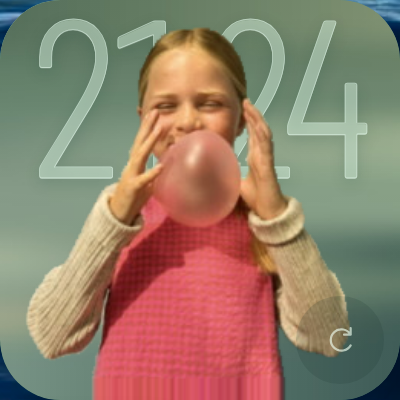
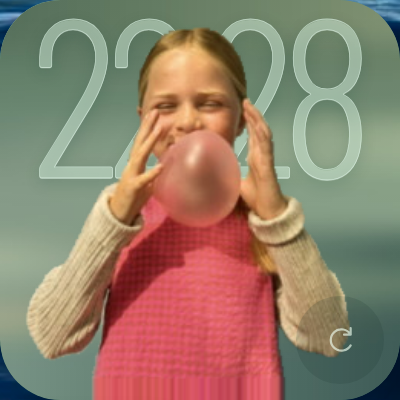
fix(ipad): complete Widget 2.2 native media, backups and browser regressions

diff --git a/ipad/sw.js b/ipad/sw.js
@@ -1,8 +1,8 @@
 'use strict';
 const CACHE_PREFIX='air-os-ipad-'+encodeURIComponent(self.registration.scope)+'-';
-const CACHE_VERSION=CACHE_PREFIX+'air-os-ipad-v5-4d0f57258fc68c354911';
+const CACHE_VERSION=CACHE_PREFIX+'air-os-ipad-v5-38048f4e3089477f0223';
 const SHELL=["./","./NOTICE","./air-flow.css","./air-logo.png","./air-os-official.png","./app.js","./apps.js","./assets/fonts/Barlow-OFL.txt","./assets/fonts/OpenRunde-Regular.otf","./assets/fonts/OpenRunde-Semibold.otf","./assets/fonts/barlow-clock.woff2","./assets/forest-path.jpg","./assets/forest-path.metadata.json","./assets/lake-evening.jpg","./assets/lake-evening.metadata.json","./assets/ocean-blue.jpg","./assets/ocean-blue.mp4","./assets/yosemite-morning.metadata.json","./assets/yosemite-morning.png","./backup.js","./core/desktop-sessions.js","./core/genie-model.js","./core/genie-transition.js","./core/infinity-dock.js","./core/infinity-notification.js","./core/infinity-web.js","./core/music-metadata.js","./core/playback-history.js","./core/security.js","./core/transfers.js","./core/visual-icons.js","./core/visual-motion.js","./core/wallpaper.js","./core/widget-layout.js","./core/window-model.js","./desktop.css","./desktop.js","./dock-material.js","./icon.svg","./icons/AUTHORS","./icons/COPYING","./icons/NOTICE","./icons/browser/document-save-symbolic.svg","./icons/browser/edit-copy-symbolic.svg","./icons/browser/edit-delete-symbolic.svg","./icons/browser/edit-paste-symbolic.svg","./icons/browser/go-next-symbolic.svg","./icons/browser/go-previous-symbolic.svg","./icons/browser/go-up-symbolic.svg","./icons/source/actions/16/document-new.svg","./icons/source/actions/16/document-open.svg","./icons/source/actions/16/document-save.svg","./icons/source/actions/16/edit-copy.svg","./icons/source/actions/16/edit-cut.svg","./icons/source/actions/16/edit-delete.svg","./icons/source/actions/16/edit-paste.svg","./icons/source/actions/16/edit-redo.svg","./icons/source/actions/16/edit-undo.svg","./icons/source/actions/16/go-home.svg","./icons/source/actions/16/go-next.svg","./icons/source/actions/16/go-previous.svg","./icons/source/actions/16/go-up.svg","./icons/source/actions/16/list-add.svg","./icons/source/actions/16/list-remove.svg","./icons/source/actions/16/media-playback-pause.svg","./icons/source/actions/16/media-playback-start.svg","./icons/source/actions/16/media-skip-backward.svg","./icons/source/actions/16/media-skip-forward.svg","./icons/source/actions/16/view-refresh.svg","./icons/source/actions/16/window-close.svg","./icons/source/actions/22/view-grid.svg","./icons/source/actions/32/system-search.svg","./icons/source/actions/symbolic/document-save-symbolic.svg","./icons/source/actions/symbolic/edit-copy-symbolic.svg","./icons/source/actions/symbolic/edit-delete-symbolic.svg","./icons/source/actions/symbolic/edit-paste-symbolic.svg","./icons/source/actions/symbolic/go-next-symbolic.svg","./icons/source/actions/symbolic/go-previous-symbolic.svg","./icons/source/actions/symbolic/go-up-symbolic.svg","./icons/source/apps/scalable/accessories-camera.svg","./icons/source/apps/scalable/accessories-text-editor.svg","./icons/source/apps/scalable/calc.svg","./icons/source/apps/scalable/calendar.svg","./icons/source/apps/scalable/evolution-tasks.svg","./icons/source/apps/scalable/gnome-music.svg","./icons/source/apps/scalable/internet-mail.svg","./icons/source/apps/scalable/preferences-system.svg","./icons/source/apps/scalable/text-editor.svg","./icons/source/categories/32/applications-internet.svg","./icons/source/devices/scalable/audio-headphones.svg","./icons/source/devices/scalable/computer.svg","./icons/source/devices/scalable/drive-harddisk.svg","./icons/source/devices/scalable/drive-removable-media.svg","./icons/source/devices/scalable/input-keyboard.svg","./icons/source/places/scalable/folder-documents.svg","./icons/source/places/scalable/folder-download.svg","./icons/source/places/scalable/folder-images.svg","./icons/source/places/scalable/folder-music.svg","./icons/source/places/scalable/folder-videos.svg","./icons/source/places/scalable/folder.svg","./icons/source/places/scalable/user-home.svg","./icons/source/places/scalable/user-trash.svg","./icons/source/status/16/task-complete.svg","./icons/source/status/32/dialog-warning.svg","./licenses/Air-OS-MIT.txt","./licenses/InfinityOS-AGPL-3.0.txt","./licenses/InfinityOS-Linux-GPL-3.0.txt","./licenses/KDE-wallpaper-LGPL-3.0.txt","./licenses/MacShell-MIT.txt","./licenses/MacShell-MacLock-MIT.txt","./licenses/MacTahoe-GTK-MIT.txt","./licenses/OpenRunde-OFL-1.1.txt","./liquid-maclock.css","./maclock.js","./manifest.webmanifest","./notch/model.js","./notch/motion-data.js","./notch/pro-notch.css","./notch/pro-notch.js","./playback-history.js","./premium4.css","./provenance.json","./registry.js","./source/source-info.json","./source/source.zip","./spotify.js","./storage.js","./styles.css","./system3.css","./vendor/SOURCE.json","./vendor/air-arcade-games.css","./vendor/air-arcade-games.js","./vendor/airwrite.css","./vendor/airwrite.js","./vendor/glass/geometry.js","./vendor/glass/maclock-original.frag","./vendor/glass/provenance.json","./vendor/glass/renderer.js","./vendor/glass/shaders.js","./vendor/infinityos/launcher-model.js","./vendor/infinityos/linux-excerpts.txt","./vendor/infinityos/provenance.json","./vendor/infinityos/web-excerpts.txt","./vendor/macshell/clock-dial.js","./vendor/macshell/shell7.js","./vendor/premium4-provenance.json","./vendor/premium4-source-excerpts.txt","./vendor/system3-provenance.json","./wallpaper.css","./widgets-2.css","./widgets.js"];
[2 lines of base64/hex data omitted]
 const scope=new URL(self.registration.scope),allowed=new Map(SHELL.map(p=>[new URL(p,scope).href,p]));
 function withoutRedirect(response){return new Response(response.body,{status:response.status,statusText:response.statusText,headers:response.headers});}
 async function verified(response,path,returnBytes=false){const expected=INTEGRITY[path];if(!expected||!response?.ok||response.redirected||['opaque','opaqueredirect'].includes(response.type))return false;const mime=(response.headers.get('content-type')||'').split(';')[0].trim().toLowerCase();if(path==='./'&&mime!=='text/html'||path.endsWith('.css')&&mime!=='text/css'||path.endsWith('.js')&&!['text/javascript','application/javascript','text/ecmascript','application/ecmascript'].includes(mime))return false;if(!response.headers.get('Content-Encoding')&&Number(response.headers.get('Content-Length'))>expected.bytes)return false;const reader=response.clone().body?.getReader();if(!reader)return false;let length=0;const chunks=[];try{for(;;){const part=await reader.read();if(part.done)break;length+=part.value.byteLength;if(length>expected.bytes){void reader.cancel().catch(()=>{});void response.body?.cancel().catch(()=>{});return false;}chunks.push(part.value);}}finally{reader.releaseLock();}if(length!==expected.bytes)return false;const bytes=new Uint8Array(length);let at=0;for(const c of chunks){bytes.set(c,at);at+=c.length;}const hash=Array.from(new Uint8Array(await crypto.subtle.digest('SHA-256',bytes)),b=>b.toString(16).padStart(2,'0')).join('');return hash===expected.sha256?(returnBytes?bytes:true):false;}

diff --git a/ipad/index.html b/ipad/index.html
@@ -18,7 +18,7 @@
   <link rel="stylesheet" href="./styles.css" integrity="sha256-cAuhPFTVnUNpM1P8ars0vg8rJGCo9qM2zpq0CwlwXpc=">
   <title>Air-OS iPad</title>
   <link rel="stylesheet" href="./vendor/airwrite.css" integrity="sha256-UWDneUryi+OGGtwaCGKI/16aGSVY6YDP8UkHFvJ+P8w="><link rel="stylesheet" href="./vendor/air-arcade-games.css" integrity="sha256-Duk5jAj3Z4mbzPaI0wLWMo41PjQjukaa+Mdtn/9fLE4="><link rel="stylesheet" href="./desktop.css" integrity="sha256-dq5+tzufIrsBGGMswKbyM2OgbM9zhZGj4zsMt0Q9P/s=">
-  <script defer src="./core/visual-icons.js" integrity="sha256-oJrcFmIULBekzuVNsv4fZKr3issvyT48TjOMRD2dm1c="></script><script defer src="./registry.js" integrity="sha256-X+Z7pzwrGo5I/cStrX/q73s4y45Ly4X8SDqQ6TgUj8w="></script><script defer src="./core/infinity-web.js" integrity="sha256-gZT6e9ilnM8A/GnHP5IugdctnrtMonf4vp29+XvC1H0="></script><script defer src="./core/infinity-notification.js" integrity="sha256-AZmQ8oIm1jrzFShaG2RFLTCcvSTFdw3UwVFqIS4XIl8="></script><script defer src="./core/infinity-dock.js" integrity="sha256-6iby4VvqdLt1ZZy7KteKgAefWTijvnCSUOo+wGKJCHY="></script><script defer src="./core/desktop-sessions.js" integrity="sha256-FXozxdmvoEaUy2Ryy2JRZ98Ubg4/ii/jotKlEzMsf/o="></script><script defer src="./core/window-model.js" integrity="sha256-Q6u+H2yiZk37dVsqWdZTRBWpDXndy3/7IgLElDfLo9k="></script><script defer src="./core/music-metadata.js" integrity="sha256-tOjV5Yilx2b8HSLqvxYhuAmolaQbWJftLhtSUF5TFks="></script><script defer src="./storage.js" integrity="sha256-0Ccyx4mw9r8W2BSl49emEHLqKOW/dNfZ/+81MBkbiAA="></script><script defer src="./vendor/airwrite.js" integrity="sha256-0xkN4vsNZUOD1YmOvm8UGrLc+jyBhOyGke8DqWgfv/c="></script><script defer src="./vendor/air-arcade-games.js" integrity="sha256-O1sd0DxsdODpG9y8ePCAhXBQbSZrLsQf5OgzFrvfKEo="></script><script defer src="./core/transfers.js" integrity="sha256-lTXgEvkDB/2dfKjVySKrZGXI3f7eUcly+QPYO+Bwkek="></script><script defer src="./app.js" integrity="sha256-bOhGFkgs3FIsCBy+8o2zb0LAbHR+Qm2tEsNQblW8w4I="></script><script defer src="./core/wallpaper.js" integrity="sha256-8fgcZJMVMifkRneKc7U3/Ba6RwyDRaChWIm+hB9AZ9g="></script><script defer src="./apps.js" integrity="sha256-QCgy/5JX0jf+N/UolaiqOMoVjcGVYHVRP4rk1MUS/BY="></script><script defer src="./backup.js" integrity="sha256-wSsfgqhsh/NVqvCMFULrTHoEg4e+VWas5JPKMCSNJiA="></script><script defer src="./vendor/macshell/shell7.js" integrity="sha256-oK82EbrNngVz2IW4X6X/OGwyv1vOBRS/w1itW9a01Us="></script><script defer src="./dock-material.js" integrity="sha256-CcMkKOn2CiRXj2Kru0G4Na3HbNB4pZhXW9/X29wiO0A="></script><script defer src="./vendor/infinityos/launcher-model.js" integrity="sha256-Bo9BP4vSAANCX5dzZ1LLd31aCkyotsy1FUftYOkfz4Q="></script><script defer src="./core/genie-model.js" integrity="sha256-Sg3WtFOMNq8+/4j5XfT7u/eJQoo0G+zxv1CpmOQE1C0="></script><script defer src="./core/visual-motion.js" integrity="sha256-2ieSOmcntrAjTabdeCipbX7LT8o9JVQSJ/7fuNYxcjI="></script><script defer src="./core/genie-transition.js" integrity="sha256-7mAIvHFsX8qH5m2snmOTkzIHr8XnesMrbnwkYjcAgpM="></script><script defer src="./desktop.js" integrity="sha256-pLi00SxuB1WUgSniD/qoETQtXUo0yPB0LQ3Tc5KUIZQ="></script><script defer src="./vendor/macshell/clock-dial.js" integrity="sha256-pPPG3jy70ljPgSzNMxbWahIuSiizrcVV7QXe/CuCUmg="></script><script defer src="./core/widget-layout.js" integrity="sha256-YVPy0ZO024gMaZuLD74sGkD0uYqTVEHxN56W/sZuB24="></script><script defer src="./widgets.js" integrity="sha256-Sx+a9l5oivTc9LuKNkKMVW2PXcd438VFXh67SD7Na4I="></script><script defer src="./core/playback-history.js" integrity="sha256-FnaZlTfp1mUX/j4iTJD2UvMZP0cBbzFCaSaKsHf3hkA="></script><script defer src="./playback-history.js" integrity="sha256-IWnbY7ItC37JfG0MNSiP8vmrmS+m6+6QXHifetifdEY="></script><script defer src="./spotify.js" integrity="sha256-GhThIvFUgpl6RKY6DeHjy3nmuJbSC+XBN/auAR3Pn/s="></script><script defer src="./vendor/glass/geometry.js" integrity="sha256-Q1EF0peL4XRZ6dgimRZjqf+l8Oi4Qvcqht4Y6FY73Aw="></script><script defer src="./maclock.js" integrity="sha256-FDmFQJB3Q/qZoQgR+jR7GrJ3ILvAglxNRLKKe0ph+oY="></script><script defer src="./notch/motion-data.js" integrity="sha256-8p2H/PLsj0Q8jJKSMhTa8oA2oYLkB9qG766cZF29V/Q="></script><script defer src="./notch/model.js" integrity="sha256-guex9C1JJYN9NA9mi+2BN37Szwtyt2/yFRxI28OmJYE="></script><script defer src="./notch/pro-notch.js" integrity="sha256-pddbmBYtshIgIw1lCMboqsGz30s1WPDYDiqxbePT0Ow="></script><script defer src="./vendor/glass/shaders.js" integrity="sha256-vuaVRH7HS4F+KDnqpLE+nFRYOJN1pz7ksVXNwdHDcks="></script><script defer src="./vendor/glass/renderer.js" integrity="sha256-Q79d5tMuCfi/ur/pmQQEpvL5U+n5skJo4p3TE7qVDbE="></script>
+  <script defer src="./core/visual-icons.js" integrity="sha256-oJrcFmIULBekzuVNsv4fZKr3issvyT48TjOMRD2dm1c="></script><script defer src="./registry.js" integrity="sha256-X+Z7pzwrGo5I/cStrX/q73s4y45Ly4X8SDqQ6TgUj8w="></script><script defer src="./core/infinity-web.js" integrity="sha256-gZT6e9ilnM8A/GnHP5IugdctnrtMonf4vp29+XvC1H0="></script><script defer src="./core/infinity-notification.js" integrity="sha256-AZmQ8oIm1jrzFShaG2RFLTCcvSTFdw3UwVFqIS4XIl8="></script><script defer src="./core/infinity-dock.js" integrity="sha256-6iby4VvqdLt1ZZy7KteKgAefWTijvnCSUOo+wGKJCHY="></script><script defer src="./core/desktop-sessions.js" integrity="sha256-FXozxdmvoEaUy2Ryy2JRZ98Ubg4/ii/jotKlEzMsf/o="></script><script defer src="./core/window-model.js" integrity="sha256-Q6u+H2yiZk37dVsqWdZTRBWpDXndy3/7IgLElDfLo9k="></script><script defer src="./core/music-metadata.js" integrity="sha256-tOjV5Yilx2b8HSLqvxYhuAmolaQbWJftLhtSUF5TFks="></script><script defer src="./storage.js" integrity="sha256-0Ccyx4mw9r8W2BSl49emEHLqKOW/dNfZ/+81MBkbiAA="></script><script defer src="./vendor/airwrite.js" integrity="sha256-0xkN4vsNZUOD1YmOvm8UGrLc+jyBhOyGke8DqWgfv/c="></script><script defer src="./vendor/air-arcade-games.js" integrity="sha256-O1sd0DxsdODpG9y8ePCAhXBQbSZrLsQf5OgzFrvfKEo="></script><script defer src="./core/transfers.js" integrity="sha256-lTXgEvkDB/2dfKjVySKrZGXI3f7eUcly+QPYO+Bwkek="></script><script defer src="./app.js" integrity="sha256-mPQavXciYOkq+D/X01g4ofJWQSsAAxW2s0oPdBNWAsY="></script><script defer src="./core/wallpaper.js" integrity="sha256-8fgcZJMVMifkRneKc7U3/Ba6RwyDRaChWIm+hB9AZ9g="></script><script defer src="./apps.js" integrity="sha256-QCgy/5JX0jf+N/UolaiqOMoVjcGVYHVRP4rk1MUS/BY="></script><script defer src="./backup.js" integrity="sha256-HbYGpZj0AXDd/TrNmGYUTOUTSvhvXWIBff5Qp9Rj0ik="></script><script defer src="./vendor/macshell/shell7.js" integrity="sha256-oK82EbrNngVz2IW4X6X/OGwyv1vOBRS/w1itW9a01Us="></script><script defer src="./dock-material.js" integrity="sha256-CcMkKOn2CiRXj2Kru0G4Na3HbNB4pZhXW9/X29wiO0A="></script><script defer src="./vendor/infinityos/launcher-model.js" integrity="sha256-Bo9BP4vSAANCX5dzZ1LLd31aCkyotsy1FUftYOkfz4Q="></script><script defer src="./core/genie-model.js" integrity="sha256-Sg3WtFOMNq8+/4j5XfT7u/eJQoo0G+zxv1CpmOQE1C0="></script><script defer src="./core/visual-motion.js" integrity="sha256-2ieSOmcntrAjTabdeCipbX7LT8o9JVQSJ/7fuNYxcjI="></script><script defer src="./core/genie-transition.js" integrity="sha256-7mAIvHFsX8qH5m2snmOTkzIHr8XnesMrbnwkYjcAgpM="></script><script defer src="./desktop.js" integrity="sha256-pLi00SxuB1WUgSniD/qoETQtXUo0yPB0LQ3Tc5KUIZQ="></script><script defer src="./vendor/macshell/clock-dial.js" integrity="sha256-pPPG3jy70ljPgSzNMxbWahIuSiizrcVV7QXe/CuCUmg="></script><script defer src="./core/widget-layout.js" integrity="sha256-YVPy0ZO024gMaZuLD74sGkD0uYqTVEHxN56W/sZuB24="></script><script defer src="./widgets.js" integrity="sha256-Sx+a9l5oivTc9LuKNkKMVW2PXcd438VFXh67SD7Na4I="></script><script defer src="./core/playback-history.js" integrity="sha256-FnaZlTfp1mUX/j4iTJD2UvMZP0cBbzFCaSaKsHf3hkA="></script><script defer src="./playback-history.js" integrity="sha256-IWnbY7ItC37JfG0MNSiP8vmrmS+m6+6QXHifetifdEY="></script><script defer src="./spotify.js" integrity="sha256-GhThIvFUgpl6RKY6DeHjy3nmuJbSC+XBN/auAR3Pn/s="></script><script defer src="./vendor/glass/geometry.js" integrity="sha256-Q1EF0peL4XRZ6dgimRZjqf+l8Oi4Qvcqht4Y6FY73Aw="></script><script defer src="./maclock.js" integrity="sha256-FDmFQJB3Q/qZoQgR+jR7GrJ3ILvAglxNRLKKe0ph+oY="></script><script defer src="./notch/motion-data.js" integrity="sha256-8p2H/PLsj0Q8jJKSMhTa8oA2oYLkB9qG766cZF29V/Q="></script><script defer src="./notch/model.js" integrity="sha256-guex9C1JJYN9NA9mi+2BN37Szwtyt2/yFRxI28OmJYE="></script><script defer src="./notch/pro-notch.js" integrity="sha256-pddbmBYtshIgIw1lCMboqsGz30s1WPDYDiqxbePT0Ow="></script><script defer src="./vendor/glass/shaders.js" integrity="sha256-vuaVRH7HS4F+KDnqpLE+nFRYOJN1pz7ksVXNwdHDcks="></script><script defer src="./vendor/glass/renderer.js" integrity="sha256-Q79d5tMuCfi/ur/pmQQEpvL5U+n5skJo4p3TE7qVDbE="></script>
 <link rel="stylesheet" href="./system3.css" integrity="sha256-C498dpr1SsBXZF4s6KykpRattf0sIlDPWfrMREw7imI="><link rel="stylesheet" href="./premium4.css" integrity="sha256-dpWJOJAvcyoSUVv9OGh2lJSN+LDSxziosZeYoSsD3tA="><link rel="stylesheet" href="./liquid-maclock.css" integrity="sha256-fDyAh+Ncj0hcrHbR/wymDug0nahsqNfsFkOk8yz49sM="><link rel="stylesheet" href="./notch/pro-notch.css" integrity="sha256-aity69bsEaOb3Ry3Y4+wqR1HyN7vgKstRNbHkyugjvM="><link rel="stylesheet" href="./air-flow.css" integrity="sha256-iDYQUtuukU7VWkPnH8JvU2qYMzI3MWbb5uixwAU8cxQ="><link rel="stylesheet" href="./wallpaper.css" integrity="sha256-6B0NjydaHKGjx+6Pa/L1O0m4717b0V8ZkIH8aav6lIk=">  <link rel="stylesheet" href="./widgets-2.css" integrity="sha256-f/Y0ARydxhpyfLdzFf4sooBfB85Bmz9mcGe9VT2NrHo=">
 </head>
 <body>

diff --git a/ipad/backup.js b/ipad/backup.js
@@ -1,8 +1,9 @@
 'use strict';
 // One multi-store IDB transaction for restore. Existing library is never reset or dropped.
 (()=>{const LIMIT=64*1024*1024;
- // New origin-bound playback projections/config are not portable backup data. Keep the v1 recovery contract.
- async function snapshot(){const db=await airStore.open();return new Promise((resolve,reject)=>{const tx=db.transaction(['tracks','records'],'readonly'),result={tracks:[],records:[]};for(const name of ['tracks','records']){const r=tx.objectStore(name).getAll();r.onsuccess=()=>result[name]=name==='records'?r.result.filter(row=>row.kind!=='setting'||!['last-played-metadata-v1','spotify-public-config'].includes(row.id)):r.result;}tx.oncomplete=()=>resolve(result);tx.onerror=tx.onabort=()=>reject(tx.error||Error('Backup nicht lesbar.'));});}
+ // Origin-bound playback projections, connection config and source preference stay on this origin.
+ // Keep the v1 portable recovery contract and preserve these settings on restore.
+ async function snapshot(){const db=await airStore.open();return new Promise((resolve,reject)=>{const tx=db.transaction(['tracks','records'],'readonly'),result={tracks:[],records:[]};for(const name of ['tracks','records']){const r=tx.objectStore(name).getAll();r.onsuccess=()=>result[name]=name==='records'?r.result.filter(row=>row.kind!=='setting'||!['last-played-metadata-v1','spotify-public-config','widget-music-source-v1'].includes(row.id)):r.result;}tx.oncomplete=()=>resolve(result);tx.onerror=tx.onabort=()=>reject(tx.error||Error('Backup nicht lesbar.'));});}
  function sizeReport(data,legacy={}){const all=[...data.tracks,...data.records];let binaryBytes=0,encodedBytes=0,metadataBytes=0;for(const row of all){if(row.blob instanceof Blob){binaryBytes+=row.blob.size;encodedBytes+=Math.ceil(row.blob.size/3)*4;}metadataBytes+=new Blob([JSON.stringify({...row,blob:undefined})]).size;}const legacyBytes=new Blob([JSON.stringify(legacy)]).size,estimatedFileBytes=encodedBytes+metadataBytes+legacyBytes+all.length*200+2048;return{tracks:data.tracks.length,records:data.records.length,binaryBytes,metadataBytes,estimatedFileBytes,binaryLimit:LIMIT,fileLimit:96*1024*1024,canExport:binaryBytes<=LIMIT&&estimatedFileBytes<=96*1024*1024};}
  function legacySnapshot(){const result={};for(const key of ['air-ipad:last-track-v1','air-ipad:last-progress-v1','air-ipad:calendar-v1','air-ipad:timer-v1','air-os-airwrite-profile-v2'])result[key]=localStorage.getItem(key);return result;}
  async function inspect(){return sizeReport(await snapshot(),legacySnapshot());}

diff --git a/ipad/app.js b/ipad/app.js
@@ -172,8 +172,45 @@
       if (previousURL) URL.revokeObjectURL(previousURL);
       renderLibrary();
     }
-    try { await audio.play(); }
-    catch (error) { toast('Titel kann nicht abgespielt werden. Prüfe das Audioformat.'); }
+    // WebKit may report a native error without settling the play() promise.
+    // Listen before starting the decoder and release the listener on every path.
+    const startAudio = async () => {
+      let onError;
+      const failed = new Promise((resolve, reject) => {
+        onError = () => reject(Error('Native audio decoding failed.'));
+        audio.addEventListener('error', onError, { once: true });
+      });
+      try { await Promise.race([audio.play(), failed]); }
+      finally { audio.removeEventListener('error', onError); }
+    };
+    const attemptedURL = state.objectUrl;
+    try { await startAudio(); }
+    catch (error) {
+      // A WebKit decoder can reject an IndexedDB File-backed URL even when
+      // the stored bytes are valid. Retry once from an independent memory Blob.
+      // Real unsupported formats still fail; never replace the stored record.
+      if (audio.error?.code === 4 && record.blob.size <= 64 * 1024 * 1024 &&
+          state.currentId === id && state.objectUrl === attemptedURL) {
+        try {
+          let cancelled = false, bytes;
+          const paused = () => { cancelled = true; };
+          audio.addEventListener('pause', paused, { once: true });
+          try { bytes = await record.blob.arrayBuffer(); }
+          finally { audio.removeEventListener('pause', paused); }
+          if (cancelled || state.currentId !== id || state.objectUrl !== attemptedURL) return;
+          const retryURL = URL.createObjectURL(new Blob([bytes], { type: record.blob.type }));
+          state.objectUrl = retryURL;
+          audio.src = retryURL;
+          audio.load();
+          URL.revokeObjectURL(attemptedURL);
+          await startAudio();
+        } catch (retryError) {
+          if (state.currentId === id) toast('Titel kann nicht abgespielt werden. Prüfe das Audioformat.');
+        }
+      } else if (state.currentId === id) {
+        toast('Titel kann nicht abgespielt werden. Prüfe das Audioformat.');
+      }
+    }
     renderMedia();
   }
   function next(delta) {

diff --git a/docs/WIDGETS-2-2.md b/docs/WIDGETS-2-2.md
@@ -28,7 +28,10 @@ verwendet weiterhin seine vorhandenen Steuerelemente.
 ## Musikquelle und Datenschutz
 
 Das Widget bevorzugt standardmäßig Spotify. Seine Auswahl wird im bestehenden
-Setting-Store unter `widget-music-source-v1` gespeichert. Das Menü bietet
+Setting-Store unter `widget-music-source-v1` gespeichert. Die ursprungsgebundene
+Quellenauswahl bleibt wie Spotify-Konfiguration und Verlauf außerhalb portabler
+Backups. Ein Export lässt sich damit weiterhin durch die unverändert strenge
+Wiederherstellungsprüfung einlesen; die lokale Zielauswahl bleibt erhalten. Das Menü bietet
 „Air Music anzeigen“ beziehungsweise „Spotify bevorzugen“. Die globale
 Metadaten-Auswahl für Lockscreen und Notch behält aktives lokales Audio als direkt steuerbare Quelle; sonst bleibt die chronologische Auswahl erhalten.
 Der Widget-Transport adressiert den lokalen Besitzer gezielt; eine neue lokale
@@ -102,8 +105,20 @@ geprüft. Länge und Encoding-Header werden an die bereits dekodierten Bytes
 angepasst. MIME-, Status-, Redirect-, Größen- und Hash-Prüfungen bleiben aktiv.
 Ein fehlgeschlagener Download führt weiterhin zum Abbruch der Generation.
 
-Lokal bestanden: 72 Node-, 46 bestehende Widget-, 44 Widget-2.2-, 20 Spotify-,
+Lokal bestanden: 79 Node-, 46 bestehende Widget-, 44 Widget-2.2-, 20 Spotify-,
 32 AIR-FLOW-, 54 Genie- sowie 61 Dock-Prüfungen jeweils bei DPR 1 und 2. Build und Integrität
 prüfen 153 Runtime-Dateien. Echte Browser-Screenshots und Referenzvergleiche liegen
 unter `docs/testing/widgets-2-2/`. Die vollständige CI und gegebenenfalls zusätzliche
 Ergebnisse werden nach Abschluss im bestehenden PR #9 verlinkt.
+
+Die WebKit-Referenzprüfung meldete außerdem `error4`/`readyState0` für eine
+importierte WAV-Datei. Der vorhandene Audio-Besitzer versucht nur bei diesem
+nativen Fehler einmalig dieselben gespeicherten Bytes als unabhängigen Speicher-
+Blob (maximal die bestehende Importgrenze von 64 MiB). Ein zwischenzeitlicher
+Quellenwechsel verwirft das Ergebnis. Unlesbare oder nicht unterstützte Formate
+bleiben Fehler; gespeicherte Audiodateien werden nicht geändert. Sechs Node-
+Regressionen prüfen Bytegleichheit, die Grenze, den Abbruch und echte Fehler.
+Die vollständigen nativen WebKit-Prüfungen bleiben als CI-Gate aktiv.
+Der native Fehler wird auch dann verarbeitet, wenn WebKit das ursprüngliche
+`play()`-Promise offen lässt. Der pro Versuch gesetzte Fehler-Listener wird
+anschließend entfernt; es gibt keinen Wiederholungs-Timer.
